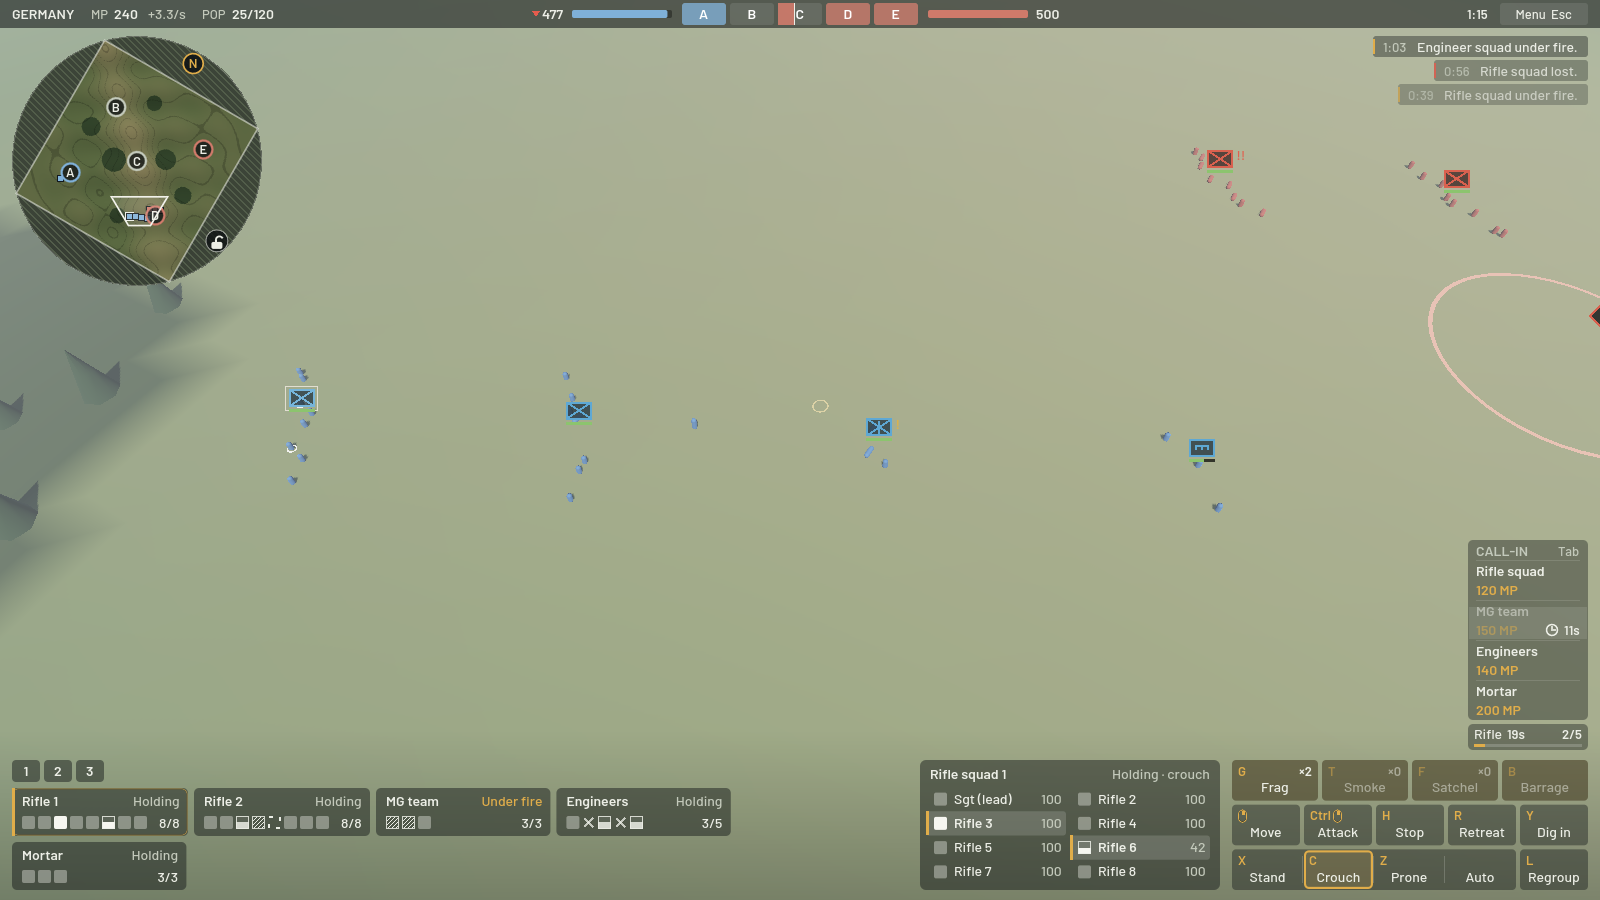
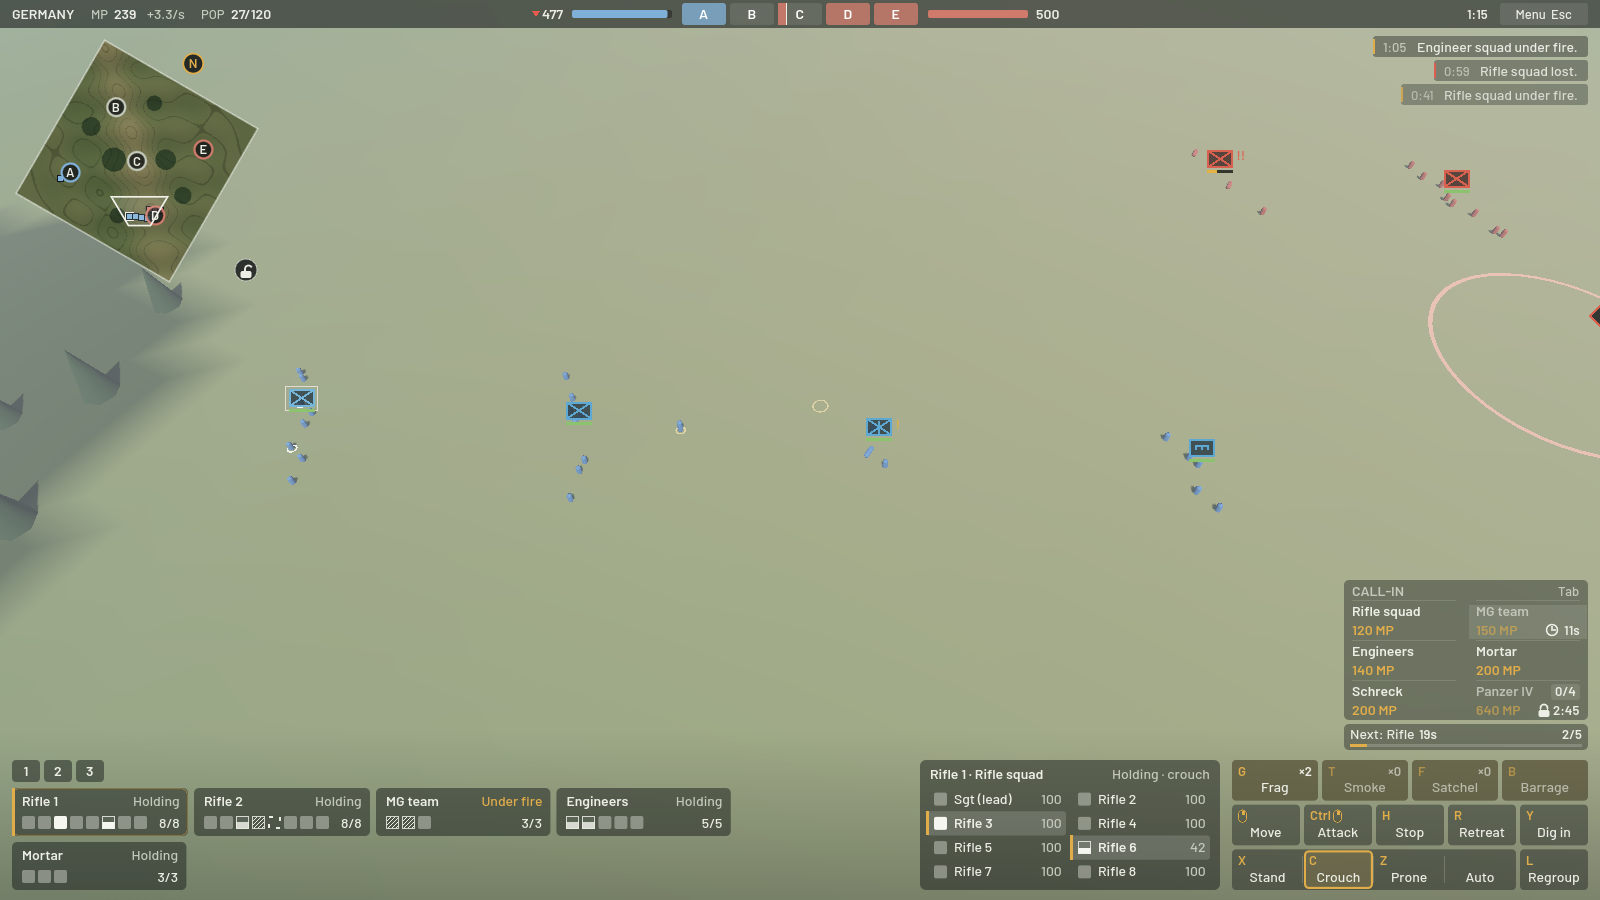
Minimap: rotate with the camera by default, drop the disc backdrop
Owner request: keep the rotating minimap as the default view, without the
big grey circle behind it.

- settings.gd: minimap_rotate defaults to true (dock stays top_left).
- minimap.gd, rotating: only the turned map square is drawn, with its light
  outline; the disc, its hatching and rim are gone. Contacts and capture
  points off the map square are skipped, and the camera footprint is
  clipped to the map square (Geometry2D) instead of clamped to the disc.
- Input: _inside() / _has_point() test the turned square, so clicks and
  drags in the box's empty corners reach the world; the lock button stays
  clickable through _has_point().
- The lock / rotate toggle sits in the box's bottom-right corner in both
  modes (outside the map at any yaw). North-up drawing is unchanged.
- match.gd: "north_up" capture stage. Tests cover pass-through, the lock,
  footprint clipping and the 45-degree diamond. Docs and the rotated
  screenshot updated.

diff --git a/godot/docs/match_state.md b/godot/docs/match_state.md
@@ -354,9 +354,10 @@ Built by `match/hud/` on `MatchView`; layout, colours and fonts follow
 normal and compact metric sets). `hud_layout.gd` places the pieces and keeps
 at least one window pixel per HUD pixel, so 1280x800 lays out natively with
 the compact metrics instead of shrinking 14 px text to 11 px. Pieces:
-`top_bar.gd` (with the A–E chips), `minimap.gd` (north-up rounded square;
-setting `minimap_rotate` turns it with the camera as a disc with an off-map
-hatch; `minimap_dock` puts it bottom-left), `event_feed.gd` (3 lines,
+`top_bar.gd` (with the A–E chips), `minimap.gd` (setting `minimap_rotate`,
+on by default, turns it with the camera: only the turned map square is
+drawn, with no backdrop, and clicks in the box's empty corners reach the
+world; off, a north-up rounded square; `minimap_dock` puts it bottom-left), `event_feed.gd` (3 lines,
 click-through), `roster.gd` (group tabs, squad cards with per-man pips),
 `detail_panel.gd`, `orders_grid.gd` (abilities, orders, stance strip) and
 `call_in_panel.gd`. Rings under selected and hovered soldiers are one

diff --git a/docs/slices/S1b-hud.md b/docs/slices/S1b-hud.md
@@ -4,6 +4,7 @@ Mocks: hud-mock-v2.png, hud-mock-v2-1280.png (generator gen_hud_v2.py).
 
 **Owner corrections that override the text below:**
 - The minimap shows the **whole map, north-up**, as a rounded square, by default. A setting rotates it with the camera; only then is it drawn as a disc with an off-map hatch. Drop the radar mode that centres on the camera.
+- **Minimap (owner, 2026-11-01):** rotating with the camera is now the default. Drop the disc and its hatch: only the turned map square is drawn, floating over the world, and clicks in the empty corners reach the world. The lock button sits in the box's bottom-right corner, outside the map at any yaw.
 - The A–E capture chips go in the top bar (done in the mock).
 - **Hotkeys (owner, 2026-10-31):**
   - Stance uses the direct-control keys: X stand, C crouch, Z prone. Pressing the active stance again returns to Auto. There is no V key, so V stays melee in direct control.

diff --git a/docs/TODO.md b/docs/TODO.md
@@ -19,8 +19,10 @@ it.
     a heavy solid slab.
   - **Minimap:** free-standing, larger than today's 220 px, and lightly
     framed. The owner suggested the top-left corner; that is being weighed
-    against bottom-left. It is **north-up by default**, with an optional
-    toggle to rotate with the camera (decided 2026-10-31).
+    against bottom-left. It was **north-up by default**, with an optional
+    toggle to rotate with the camera (decided 2026-10-31). Since 2026-11-01
+    rotating with the camera is the default, drawn as the turned map alone
+    with no disc or hatch behind it (owner request).
   - **Capture points:** the A–E buttons move into the top bar, with capture
     progress drawn inside each button (owner request).
   - **Call-in:** a column at the bottom right, just above or beside the
